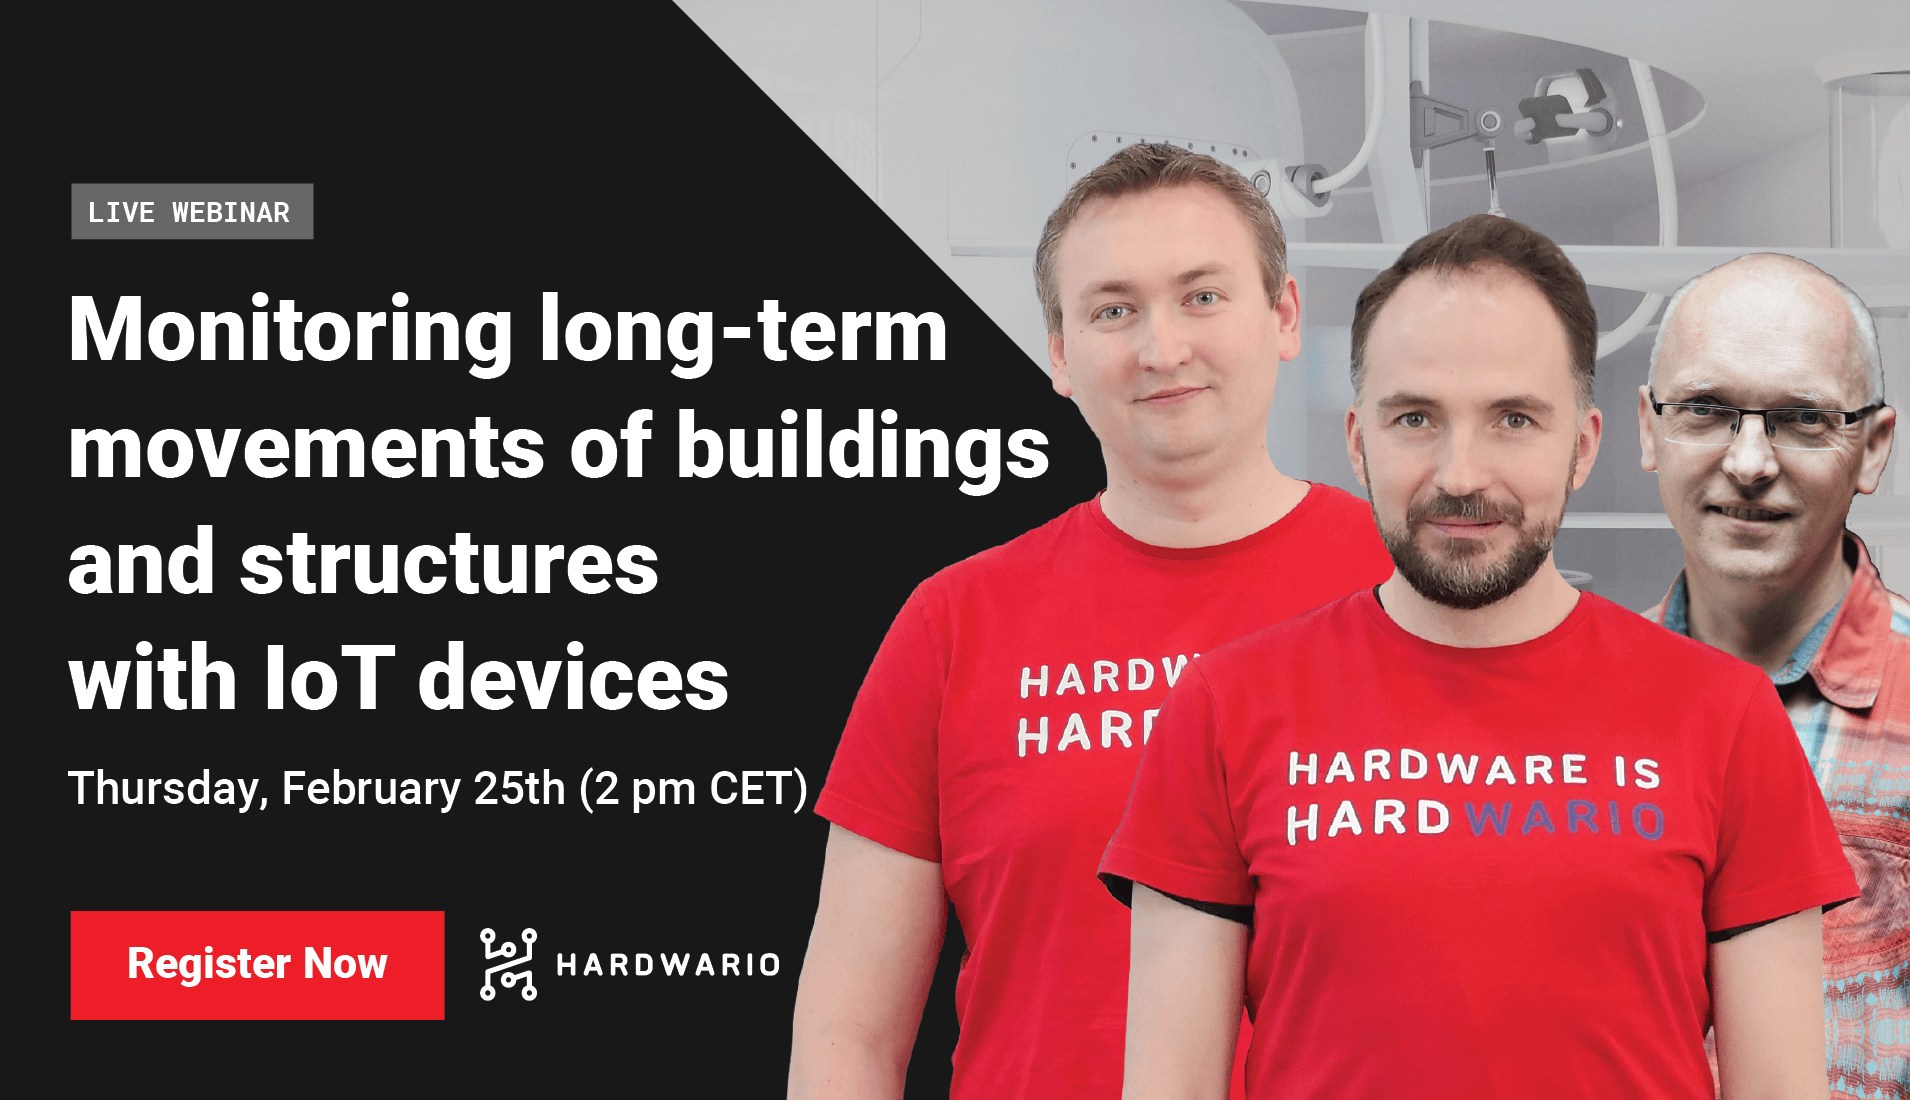
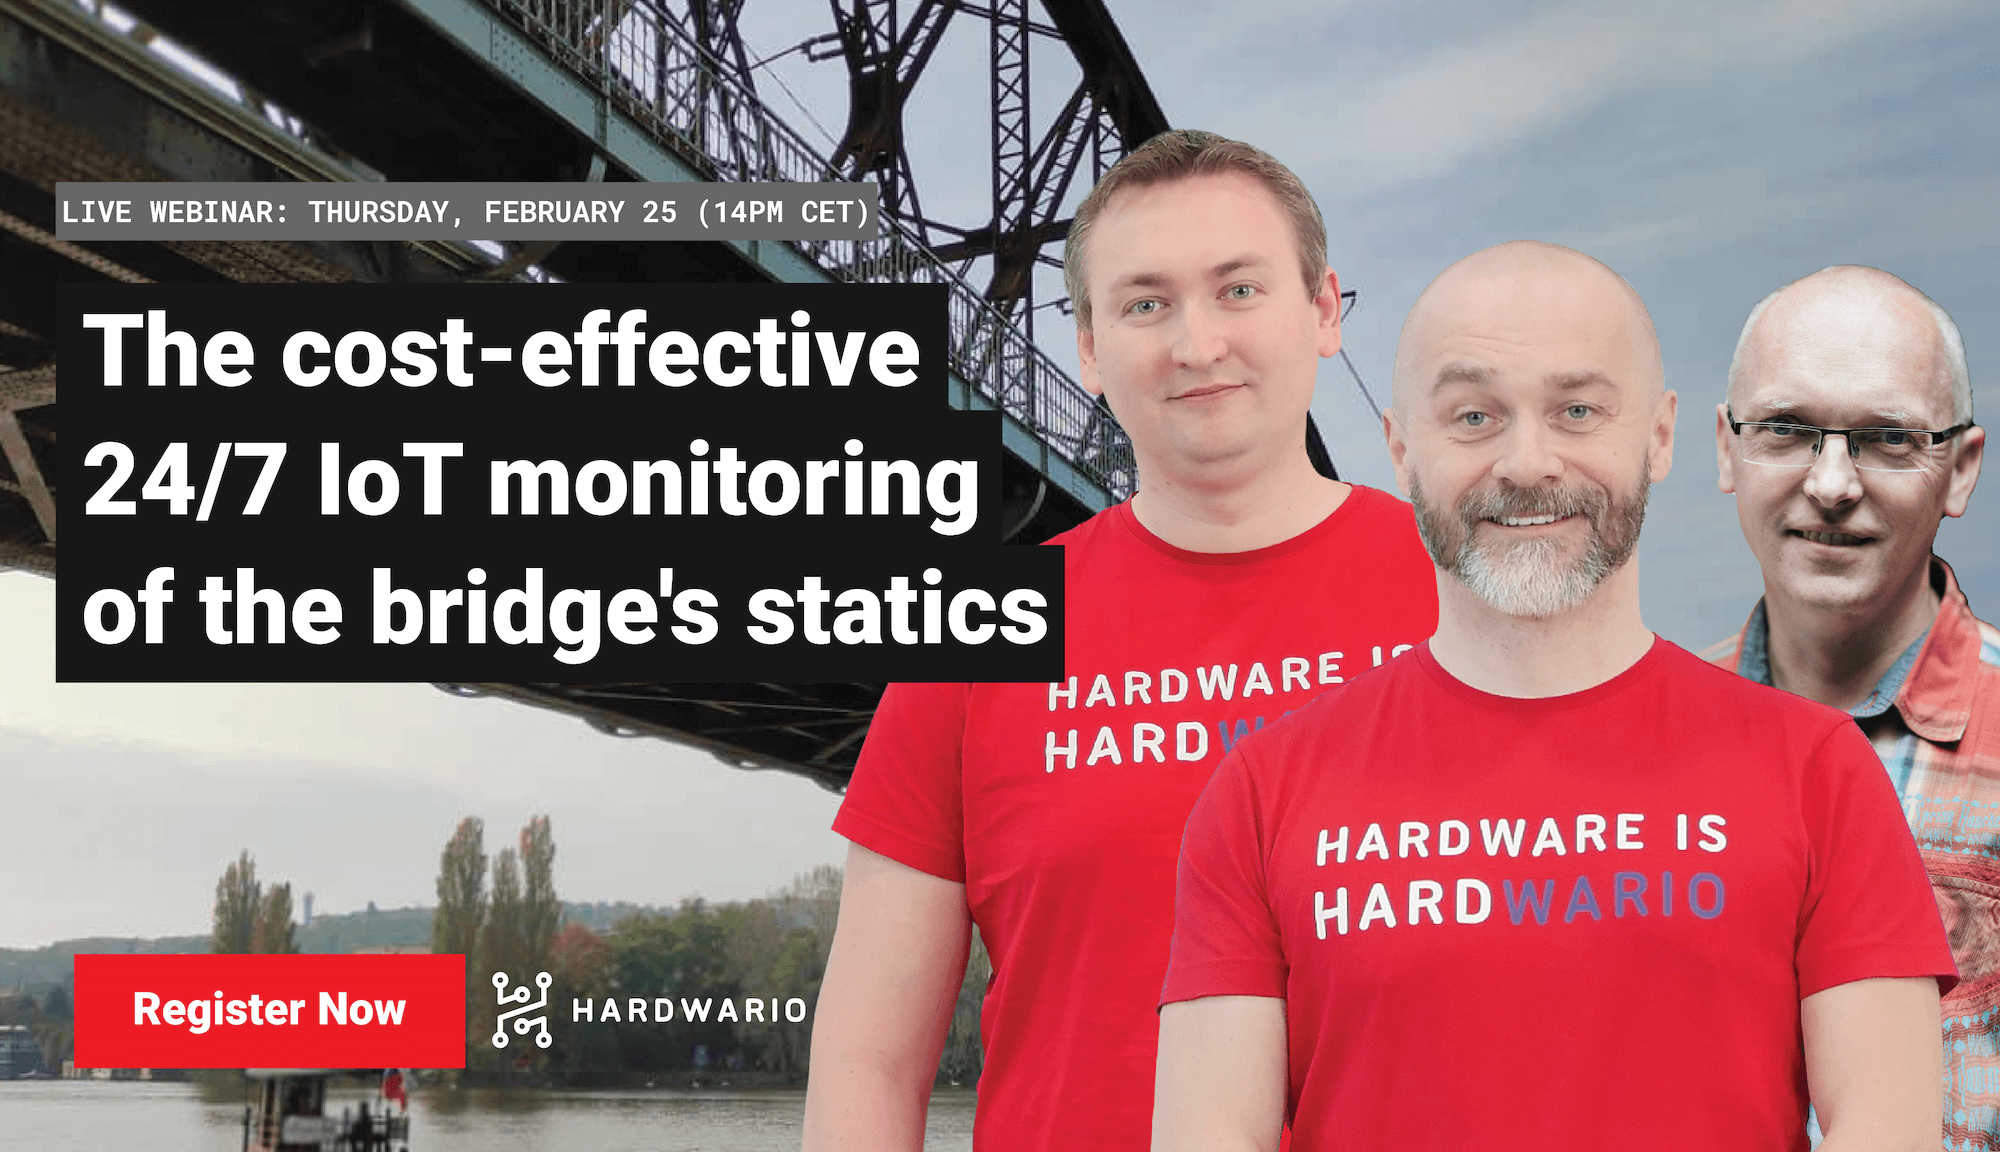
Upload webinar

diff --git a/content/events/2021-02-25-webinar-industry.en.md b/content/events/2021-02-25-webinar-industry.en.md
@@ -4,7 +4,7 @@ time: "2 pm CET"
 price: "Free"
 publishdate: "2021-02-08"
 expirydate: "2021-02-26"
-title: "STATOTEST: Cost-effective 24/7 IoT monitoring the statics of buildings, bridges and other structures"
+title: "STATOTEST: The cost-effective 24/7 IoT monitoring of the bridge's statics"
 hashtags: ["webinar","free"]
 category: industry
 image_main: /upload/webinar-statotest.png
@@ -15,9 +15,7 @@ description: "Register to free HARDWARIO IoT Webinar"
 
 <div class = "row">
 <div class = "col pr-30">
-
- <h1 class="font-weight-black font-36 font-md-46 pb-20 pb-md-30 font-md-lnh48">Cost-effective 24/7 IoT monitoring the statics of buildings, bridges and other structures</h1>
-
+<h1 class="font-weight-black font-36 font-md-46 pb-20 pb-md-30 font-md-lnh48">The cost-effective 24/7 IoT monitoring of the bridge's statics</h1>
 <p>
 <strong>When:</strong> February 25, 2 pm CET<br/>
 <strong>Price:</strong> Free</p>
@@ -43,7 +41,6 @@ description: "Register to free HARDWARIO IoT Webinar"
 </div>
 <div class = "col-12 col-md-5">
 <div class = "px-10 py-20 mb-20 shadow">
-<img src = "/upload/webinar-statotest-2.png" class = "img-fluid mb-20">
 <h2 class = "font-weight-black font-24 font-md-24 mb-20">Register for the webinar:</h2>
 <script charset="utf-8" type="text/javascript" src="//js.hsforms.net/forms/shell.js"></script>
 <script>

diff --git a/content/events/2021-02-25-webinar-industry.cs.md b/content/events/2021-02-25-webinar-industry.cs.md
@@ -44,7 +44,6 @@ description: Přihlaste se na bezplatný HARDWARIO IoT Webinář
 </div>
 <div class = "col-12 col-md-5">
 <div class = "px-10 py-20 mb-20 shadow">
-<img src = "/upload/webinar-statotest-2.png" class = "img-fluid mb-20">
 <h2 class = "font-weight-black font-24 font-md-24 mb-20">Přihlaste na webinář:</h2>
 <script charset="utf-8" type="text/javascript" src="//js.hsforms.net/forms/shell.js"></script>
 <script>
